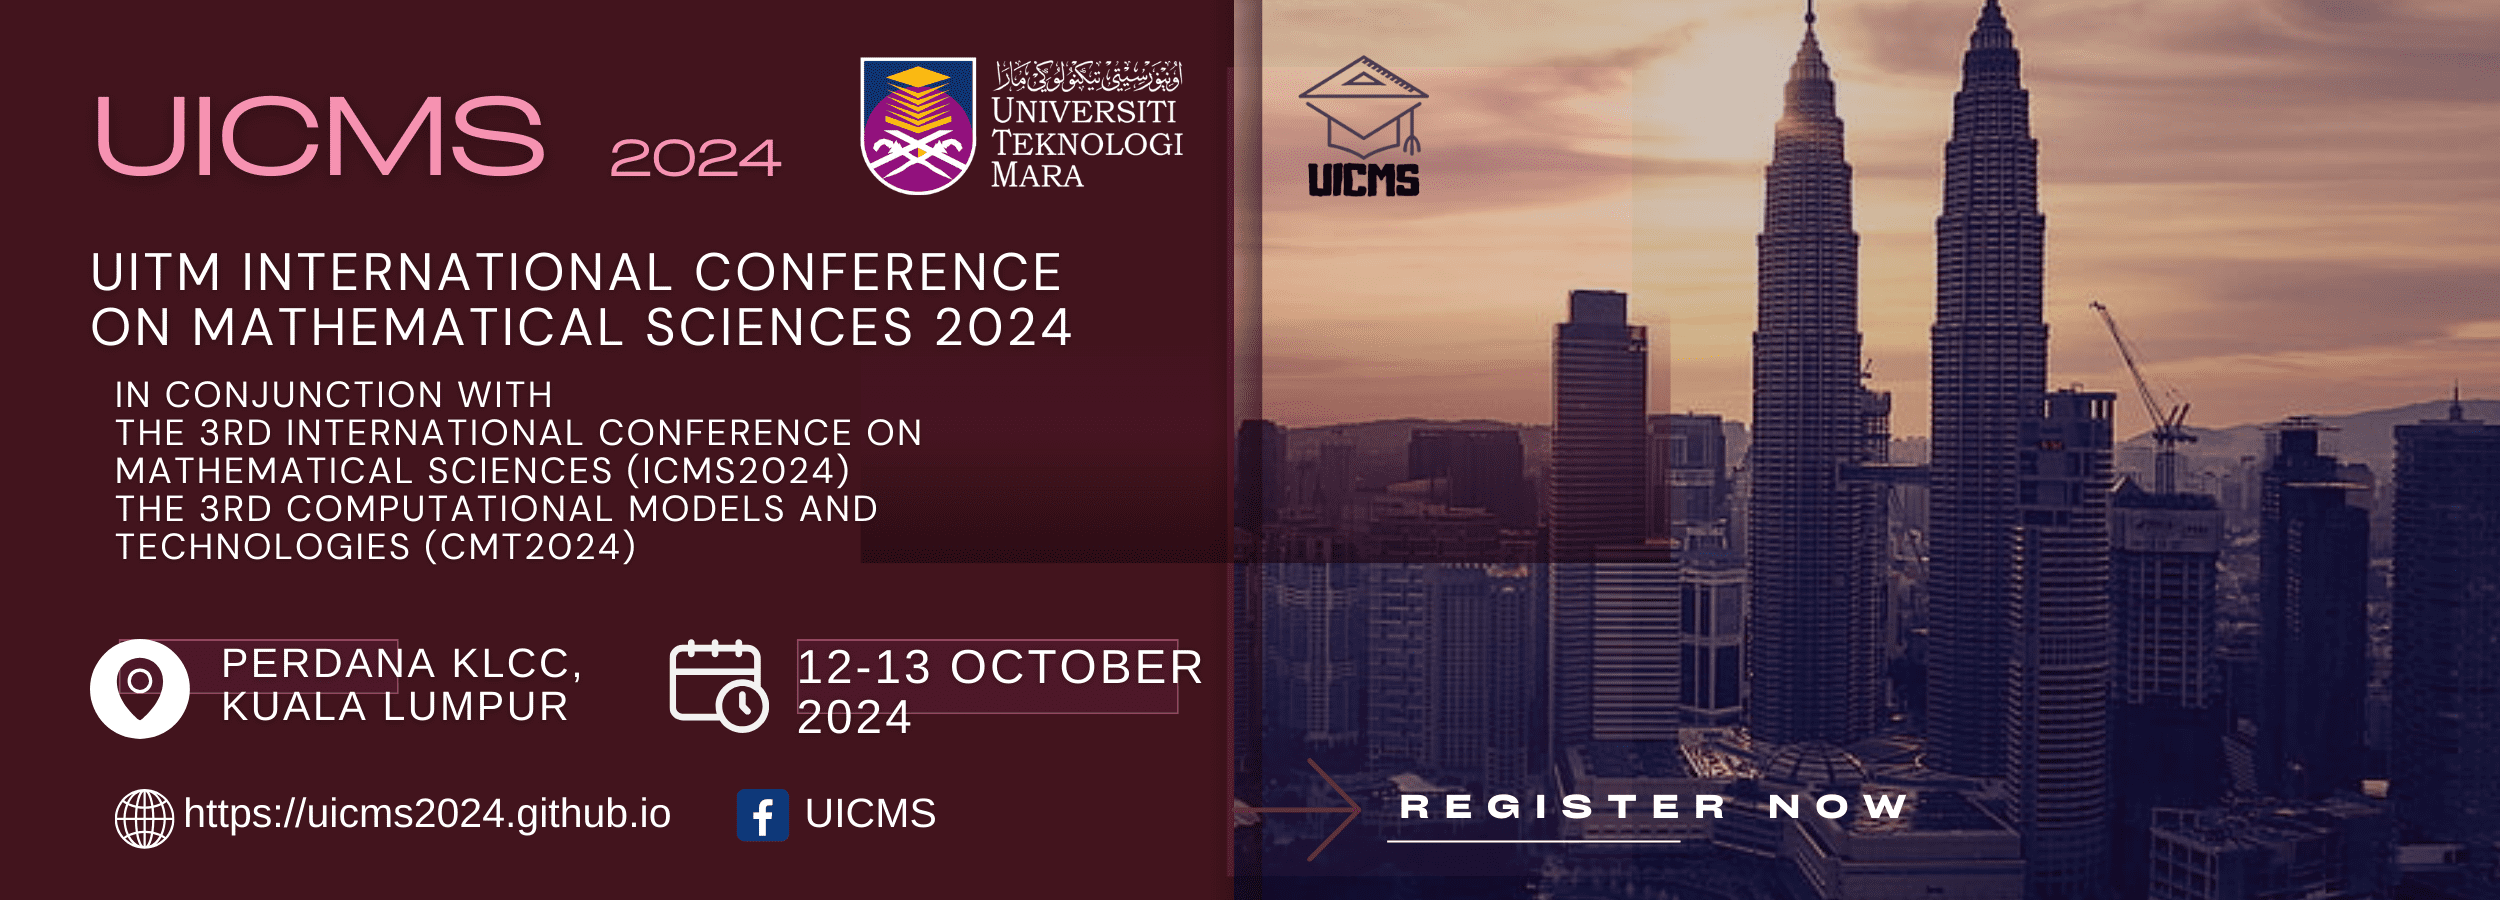
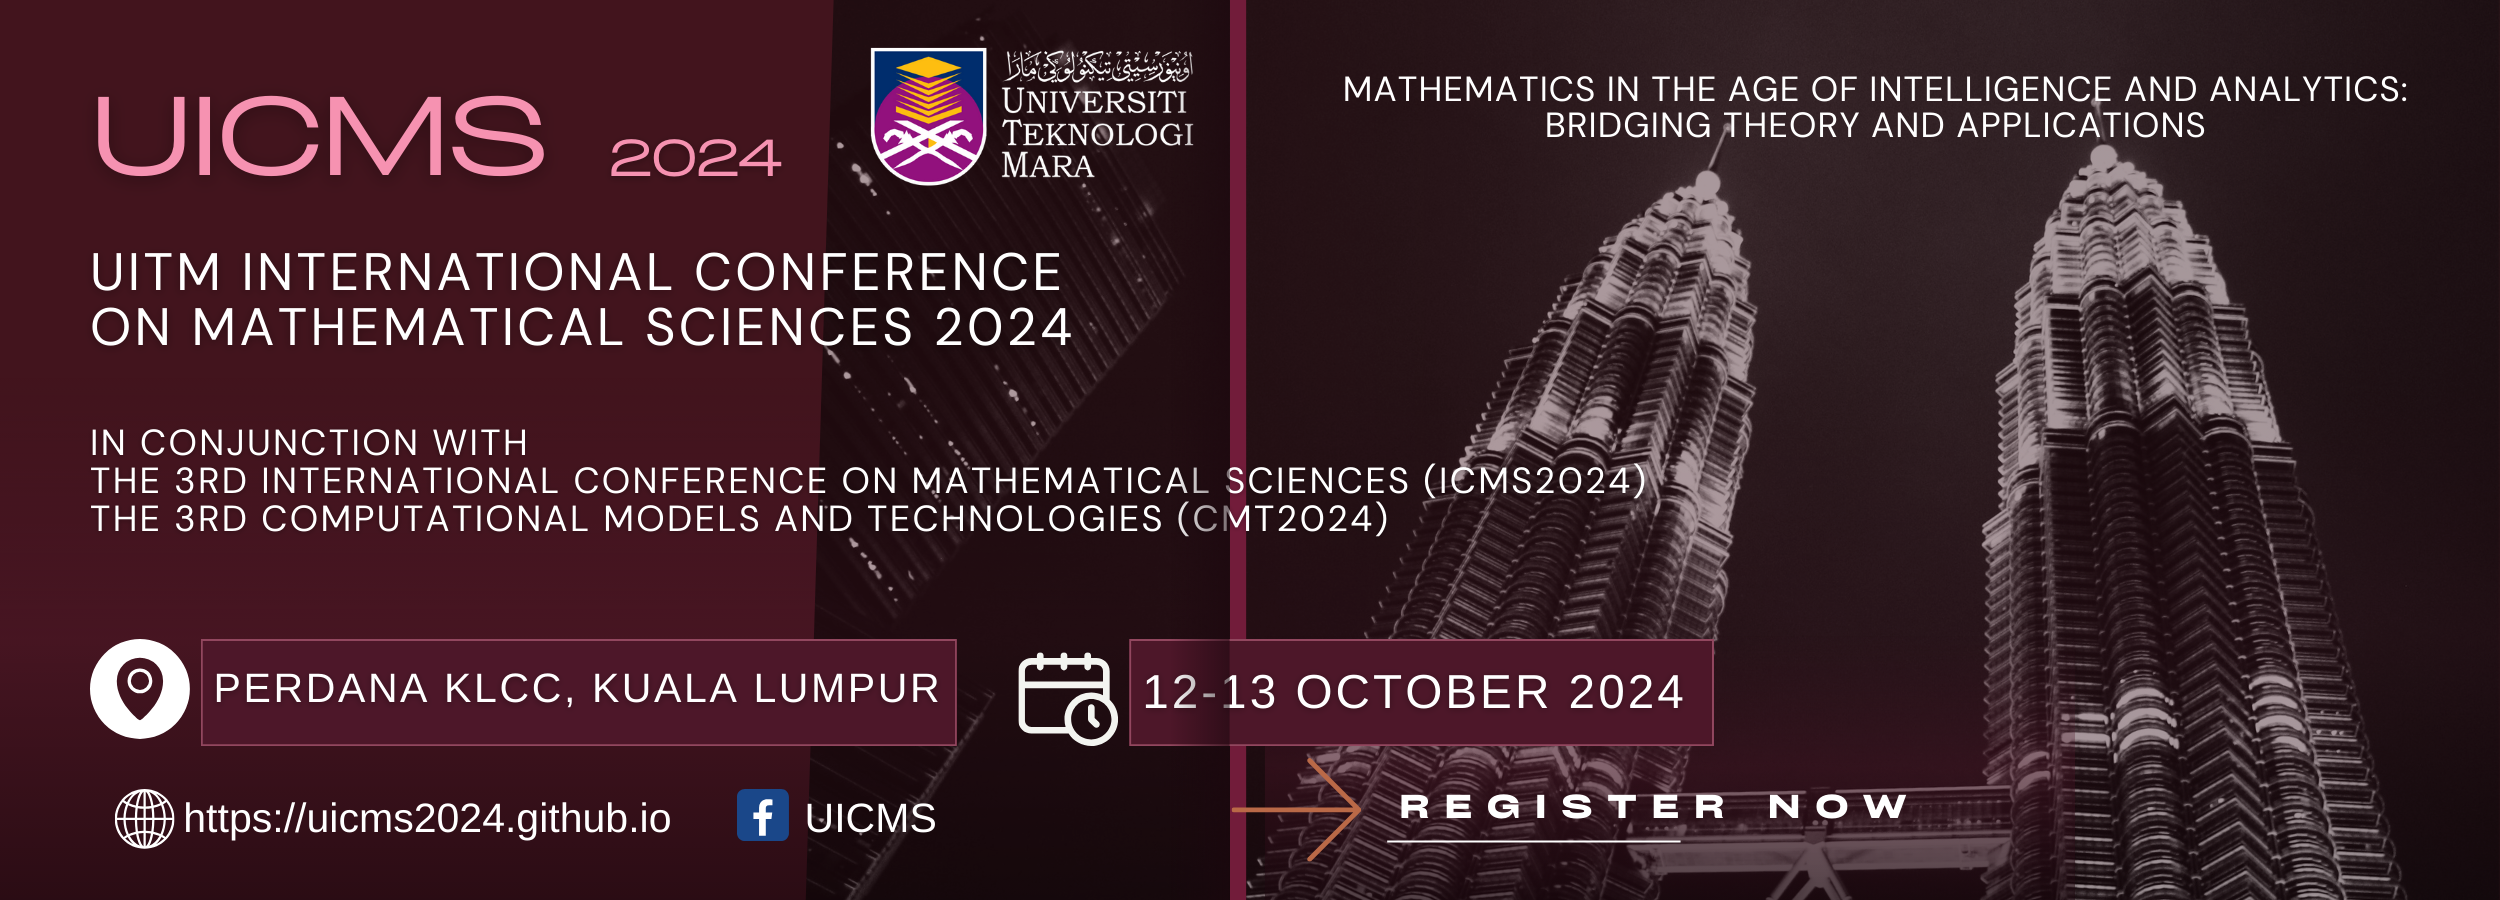
"- Update Introduction text for first page - Add new poster 1080x1080 and 2055x900 - Add EDAS registration information https://uicms2024.edas.info/ - Remove phone number from contact page"

diff --git a/src/app/home/home.component.html b/src/app/home/home.component.html
@@ -1,75 +1,176 @@
 <div class="container-fluid mt-4 p-1 bg-primary text-white text-center">
   &nbsp;
 </div>
-<img src="/assets/banner2055x900.png" class="img-fluid" alt="UICMS2024">
-
-
-<!-- <div class="container-fluid mt-5 p-5 bg-primary text-white text-center">
-  <div><h2>{{confTitle}}</h2>
-    in conjunction with<br>
-    <h4>{{confConj1}}</h4>
-    <h4>{{confConj2}}</h4>
-    <h5>{{confDate}}</h5>
-  </div> 
-</div> -->
+<img src="/assets/banner2055x900.png" class="img-fluid" alt="UICMS2024" />
 
 <div class="container mt-5">
-  <h2 class="mb-4">Keynote Speakers</h2>
-  <div class="row">
-    <!-- Card 1 -->
-    <div class="col-md-2 col-8">
-      <div class="card">
-        <img src="../assets/placeholder.jpg" class="card-img-top" alt="Image 1">
-        <div class="card-body">
-          <h5>Uzbekistan</h5>
-          <p class="card-text">Description for Keynote</p>
+  <h1>
+    Welcome to the UiTM International Conference on Mathematical Sciences 2024
+    (UICMS 2024)
+  </h1>
+  <p>
+    We are delighted to invite you to the UiTM International Conference on
+    Mathematical Sciences 2024 (UICMS2024), a prestigious event held in
+    conjunction with the 3rd International Conference on Mathematical Sciences
+    (ICMS 2024) and the 3rd Computational Models and Technologies (CMT2024).
+    This conference is set to be a milestone event, unfolding on the 12th and
+    13th of October 2024.
+  </p>
+  <p class="mt-4">
+    UICMS 2024 aims to bring together a diverse group of thought leaders,
+    innovators, and practitioners from around the world. We are focusing on the
+    critical role of mathematics in the current age of intelligence and
+    analytics, emphasizing the bridge between theoretical advancements and
+    practical applications. This gathering is a unique opportunity for
+    academics, professionals, researchers, scholars, and students to engage in a
+    rich exchange of ideas, experiences, and expertise.
+  </p>
+
+  <p class="mt-4">
+    Our conference, through its expertly curated sessions and discussions, seeks
+    to enhance collaborative efforts among academic institutions, especially
+    between UiTM and its MoU partners, and to foster a culture of high-quality
+    scholarship and research.
+  </p>
+
+  <p class="mt-4">
+    Join us for an enriching experience that promises to expand your horizons,
+    provide valuable insights, and offer networking opportunities with peers and
+    experts in the field of mathematics and its applications. We look forward to
+    your participation in making UICMS 2024 a resounding success.
+  </p>
+
+  <div class="container mt-5">
+    <h2 class="mb-4">Keynote Speakers</h2>
+    <div class="row">
+      <!-- Card 1 -->
+      <div class="col-md-2 col-8">
+        <div class="card">
+          <img
+            src="../assets/placeholder.jpg"
+            class="card-img-top"
+            alt="Image 1"
+          />
+          <div class="card-body">
+            <h5>Uzbekistan</h5>
+            <p class="card-text">Description for Keynote</p>
+          </div>
         </div>
       </div>
-    </div>
-
-    <!-- Card 2 -->
-    <div class="col-md-2 col-8">
-      <div class="card">
-        <img src="../assets/placeholder.jpg" class="card-img-top" alt="Image 2">
-        <div class="card-body">
-          <h5>Sathyabama</h5>
-          <p class="card-text">Description for Keynote</p>
+  
+      <!-- Card 2 -->
+      <div class="col-md-2 col-8">
+        <div class="card">
+          <img
+            src="../assets/placeholder.jpg"
+            class="card-img-top"
+            alt="Image 2"
+          />
+          <div class="card-body">
+            <h5>Sathyabama</h5>
+            <p class="card-text">Description for Keynote</p>
+          </div>
         </div>
       </div>
-    </div>
-
-    <!-- Card 3 -->
-    <div class="col-md-2 col-8">
-      <div class="card">
-        <img src="../assets/placeholder.jpg" class="card-img-top small-screen-img" alt="Image 3">
-        <div class="card-body">
-          <h5>Uzbekistan</h5>
-          <p class="card-text">Description for Keynote</p>
+  
+      <!-- Card 3 -->
+      <div class="col-md-2 col-8">
+        <div class="card">
+          <img
+            src="../assets/placeholder.jpg"
+            class="card-img-top small-screen-img"
+            alt="Image 3"
+          />
+          <div class="card-body">
+            <h5>Uzbekistan</h5>
+            <p class="card-text">Description for Keynote</p>
+          </div>
         </div>
       </div>
-    </div>
-
-    <!-- Card 4 -->
-    <div class="col-md-2 col-8">
-      <div class="card">
-        <img src="../assets/placeholder.jpg" class="card-img-top" alt="Image 4">
-        <div class="card-body">
-          <h5>UiTM</h5>
-          <p class="card-text">Description for Keynote</p>
+  
+      <!-- Card 4 -->
+      <div class="col-md-2 col-8">
+        <div class="card">
+          <img
+            src="../assets/placeholder.jpg"
+            class="card-img-top"
+            alt="Image 4"
+          />
+          <div class="card-body">
+            <h5>UiTM</h5>
+            <p class="card-text">Description for Keynote</p>
+          </div>
         </div>
       </div>
-    </div>
-
-    <!-- Card 5 -->
-    <div class="col-md-2 col-8">
-      <div class="card">
-        <img src="../assets/placeholder.jpg" class="card-img-top" alt="Image 5">
-        <div class="card-body">
-          <h5>UiTM</h5>
-          <p class="card-text">Description for Keynote</p>
+  
+      <!-- Card 5 -->
+      <div class="col-md-2 col-8">
+        <div class="card">
+          <img
+            src="../assets/placeholder.jpg"
+            class="card-img-top"
+            alt="Image 5"
+          />
+          <div class="card-body">
+            <h5>UiTM</h5>
+            <p class="card-text">Description for Keynote</p>
+          </div>
         </div>
       </div>
     </div>
   </div>
 </div>
 
+  <div class="container mt-5">
+  <h3>Conference Theme</h3>
+  <p>
+    <strong>Mathematics in the Age of Intelligence and Analytics: Bridging Theory and
+      Applications</strong>
+  </p>
+</div>
+
+<div class="container mt-5">
+  <h3>Objectives</h3>
+  <ol>
+    <li>
+      To provide a broad platform for academics, professionals, researchers,
+      scholars, and students in Malaysia and around the world to interact and
+      share knowledge, experience, and expertise in the field of mathematics and
+      its applications.
+    </li>
+    <li>To enhance collaborative cooperation between UiTM and MoU partners.</li>
+    <li>
+      To serve as a catalyst for a culture of scholarship based on quality by
+      encouraging academic community involvement in research, writing, and other
+      scholarly activities.
+    </li>
+    <li>
+      To create a forum for collaboration among international academic members
+      for universal benefit.
+    </li>
+    <li>
+      To provide motivation and opportunities for researchers to discuss and
+      present the latest research findings in the field of mathematics and its
+      applications.
+    </li>
+    <li>
+      To produce high-impact publications through co-authorship for joint
+      publications.
+    </li>
+  </ol>
+</div>
+
+<div class="container mt-5">
+  <h3>Joint Organizers</h3>
+  <ul>
+    <li>
+      Centre for Mathematical Sciences, College of Computing, Informatics, and
+      Mathematics, UiTM Shah Alam
+    </li>
+    <li>
+      Centre for Mathematical Sciences, College of Computing, Informatics, and
+      Mathematics, UiTM Branch Campuses
+    </li>
+    <li>PERSAMA</li>
+  </ul>
+</div>

diff --git a/src/app/dates/dates.component.html b/src/app/dates/dates.component.html
@@ -13,7 +13,7 @@
           <td>1 January 2024</td>
         </tr>
         <tr>
-          <td>Full Paper Submission Deadline</td>
+          <td>Full Paper Submission</td>
           <td>30 April 2024 - 30 June 2024</td>
         </tr>
         <tr>
@@ -25,10 +25,13 @@
           <td>15 August 2024</td>
         </tr>
         <tr>
-          <td>Early Bird Registration Deadline (with payment)</td>
+          <td>Early Bird Registration (with payment)</td>
           <td>25 August 2024</td>
         </tr>
-        <tr>
+          <tr>
+            <td>Camera Ready Submission</td>
+            <td>15 August 2024</td>
+        </tr>      <tr>
           <td>Last Date of Registration</td>
           <td>12 September 2024</td>
         </tr>
@@ -40,10 +43,7 @@
           <td>Pre-Conference Workshop (online)</td>
           <td>11 October 2024</td>
         </tr>
-        <tr>
-            <td>Camera Ready (Ready) Submission</td>
-            <td>30 November 2024</td>
-        </tr>
+
       </tbody>
     </table>
   </div>

diff --git a/src/app/app.routes.ts b/src/app/app.routes.ts
@@ -6,6 +6,7 @@ import { CommitteeComponent } from './committee/committee.component';
 import { DatesComponent } from './dates/dates.component';
 import { FeesComponent } from './fees/fees.component';
 import { GuidelinesComponent } from './guidelines/guidelines.component';
+import { RegistrationComponent } from './registration/registration.component';
 
 export const routes: Routes = [
     { path: 'home', component: HomeComponent},
@@ -15,6 +16,7 @@ export const routes: Routes = [
     { path: 'about', component: AboutComponent },
     { path: 'fees', component: FeesComponent },
     { path: 'guideline', component: GuidelinesComponent},
+    { path: 'registration', component: RegistrationComponent},
     { path: '**', redirectTo: 'home', pathMatch: 'full'},
 
 ];

diff --git a/src/app/registration/registration.component.spec.ts b/src/app/registration/registration.component.spec.ts
@@ -1,0 +1,23 @@
+import { ComponentFixture, TestBed } from '@angular/core/testing';
+
+import { RegistrationComponent } from './registration.component';
+
+describe('RegistrationComponent', () => {
+  let component: RegistrationComponent;
+  let fixture: ComponentFixture<RegistrationComponent>;
+
+  beforeEach(async () => {
+    await TestBed.configureTestingModule({
+      imports: [RegistrationComponent]
+    })
+    .compileComponents();
+    
+    fixture = TestBed.createComponent(RegistrationComponent);
+    component = fixture.componentInstance;
+    fixture.detectChanges();
+  });
+
+  it('should create', () => {
+    expect(component).toBeTruthy();
+  });
+});

diff --git a/src/app/about/about.component.html b/src/app/about/about.component.html
@@ -1,13 +1,16 @@
 
 <div class="container mt-5 mb-5 pt-5">
     <h2 class="mb-4">About Us</h2>
-    <p>For enquiries, please WhatsApp us at {{confTel}} <br>
-        or email us at {{confEmail}}</p>
+    <p>For enquiries, please 
+        <!-- WhatsApp us at {{confTel}} <br>
+        or  -->
+        email us at {{confEmail}}.</p>
     <br>
     <p>
         <strong>Address:</strong><br>
         Conference Secretariat<br>
         {{confTitle}}<br>
+        College of Computing, Informatics and Mathematics<br>
         Kompleks Al-Khawarizmi<br>
         Universiti Teknologi MARA (UiTM)<br>
         40450 Shah Alam, Selangor Darul Ehsan<br>

diff --git a/src/app/registration/registration.component.html b/src/app/registration/registration.component.html
@@ -1,0 +1,15 @@
+<div class="container mt-5 mb-5 pt-5">
+  <h2 class="mb-4">Registration</h2>
+  <div class="row">
+    <div class="col-md-12">
+      <p class="mt-4">
+        Please use this link to register:
+        <a href="https://uicms2024.edas.info/">https://uicms2024.edas.info/</a>"
+      </p>
+      <p class="mt-4">
+        Registration and payment should be completed by the latest on 12th
+        November 2024.
+      </p>
+    </div>
+  </div>
+</div>

diff --git a/src/app/header/header.component.html b/src/app/header/header.component.html
@@ -26,6 +26,7 @@
           <ul class="dropdown-menu" aria-labelledby="dropdownMenuLink">
             <li><a class="dropdown-item" href="/fees">Fees & Payment</a>
             <li><a class="dropdown-item" href="/guideline">Submission Guideline</a></li>
+            <li><a class="dropdown-item" href="/registration">Registration</a></li>
           </ul>
         </li>
 

diff --git a/src/app/registration/registration.component.ts b/src/app/registration/registration.component.ts
@@ -1,0 +1,12 @@
+import { Component } from '@angular/core';
+
+@Component({
+  selector: 'app-registration',
+  standalone: true,
+  imports: [],
+  templateUrl: './registration.component.html',
+  styleUrl: './registration.component.css'
+})
+export class RegistrationComponent {
+
+}
